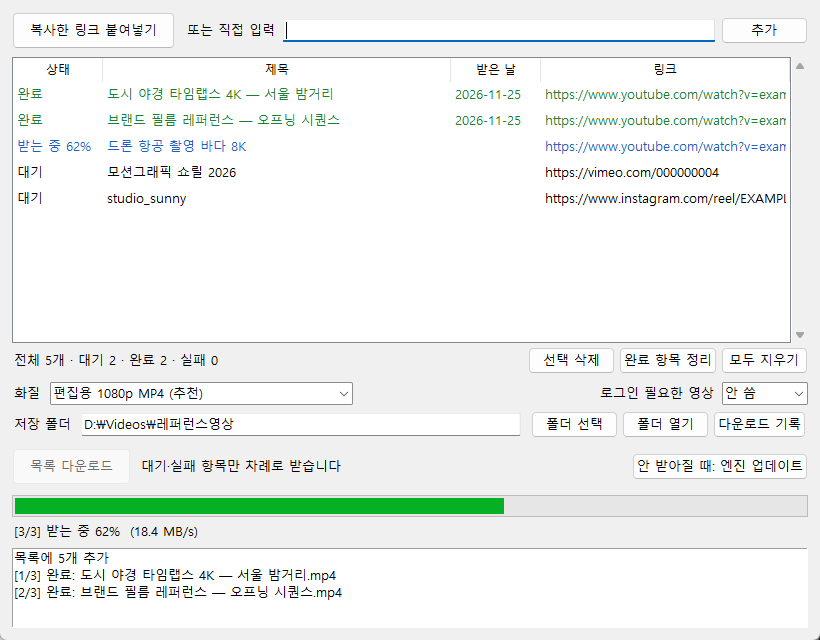
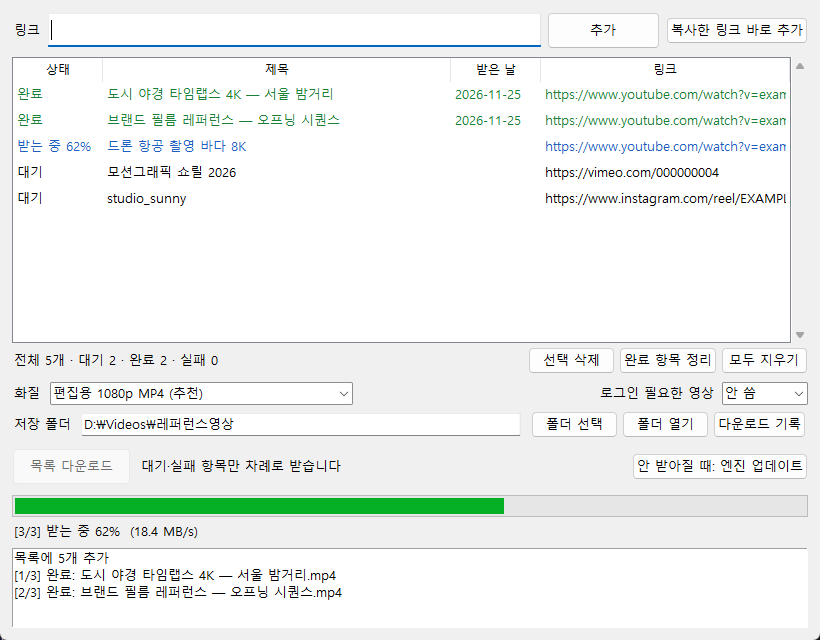
fix: 써니 다운로더 v8 — 링크 칸 맨 앞, Ctrl/Cmd+V가 칸에 그대로 붙여넣기, 로그인 필요 영상 안내

Changed region(s): [[0.3354, 0.0312, 0.9756, 0.0938], [0.0, 0.0312, 0.3354, 0.0938]]

diff --git a/downloader/index.html b/downloader/index.html
@@ -74,7 +74,7 @@ main{max-width:860px;margin:0 auto;padding:72px 24px;}
     <img src="icon.png" alt="" width="64" height="64">
     <div>
       <h1>Sunny Downloader</h1>
-      <p><span id="ver">v7</span> · 유튜브 · 비메오 · 인스타그램 · 틱톡 · X · 페이스북 등</p>
+      <p><span id="ver">v8</span> · 유튜브 · 비메오 · 인스타그램 · 틱톡 · X · 페이스북 등</p>
     </div>
   </div>
 
